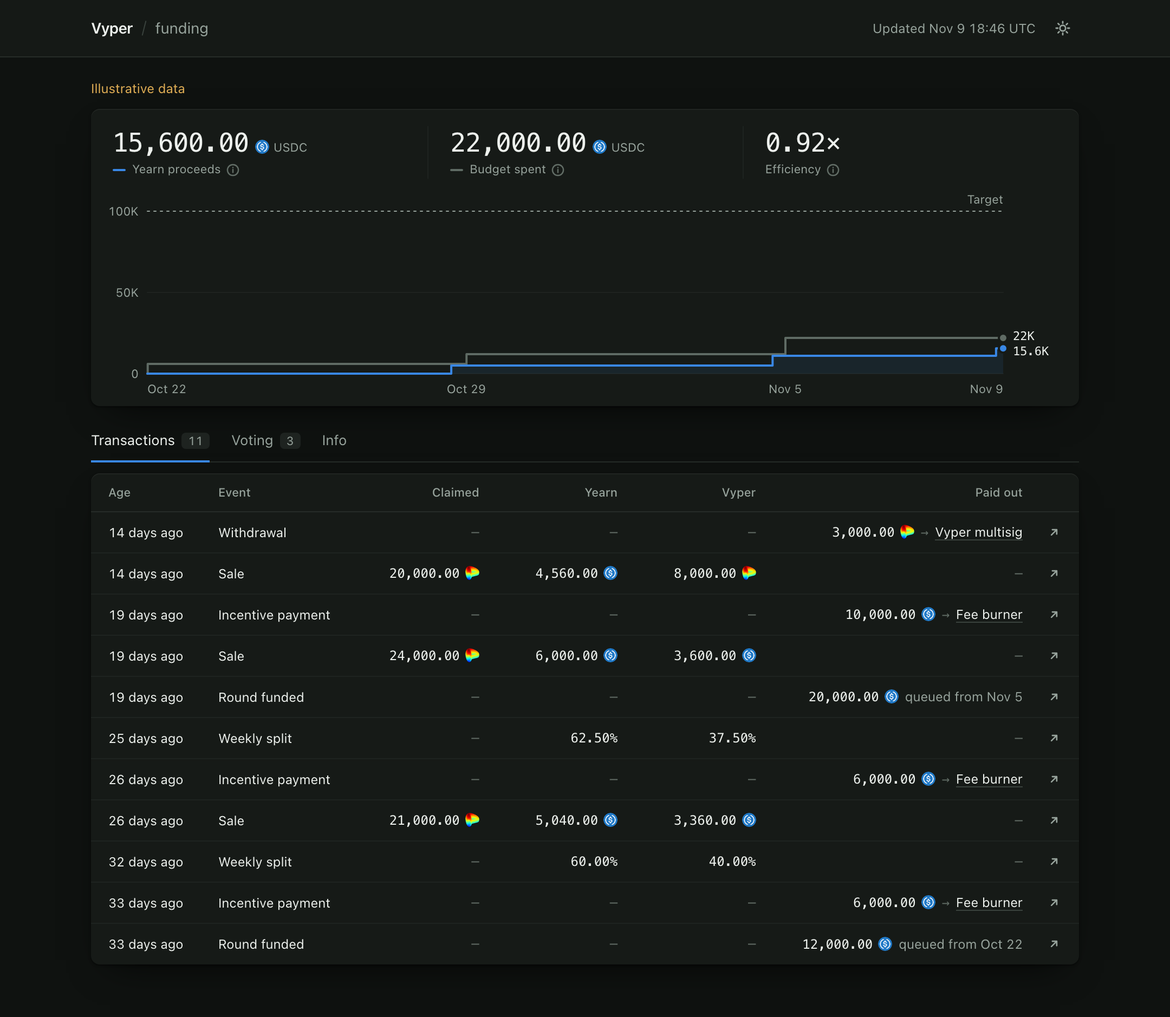
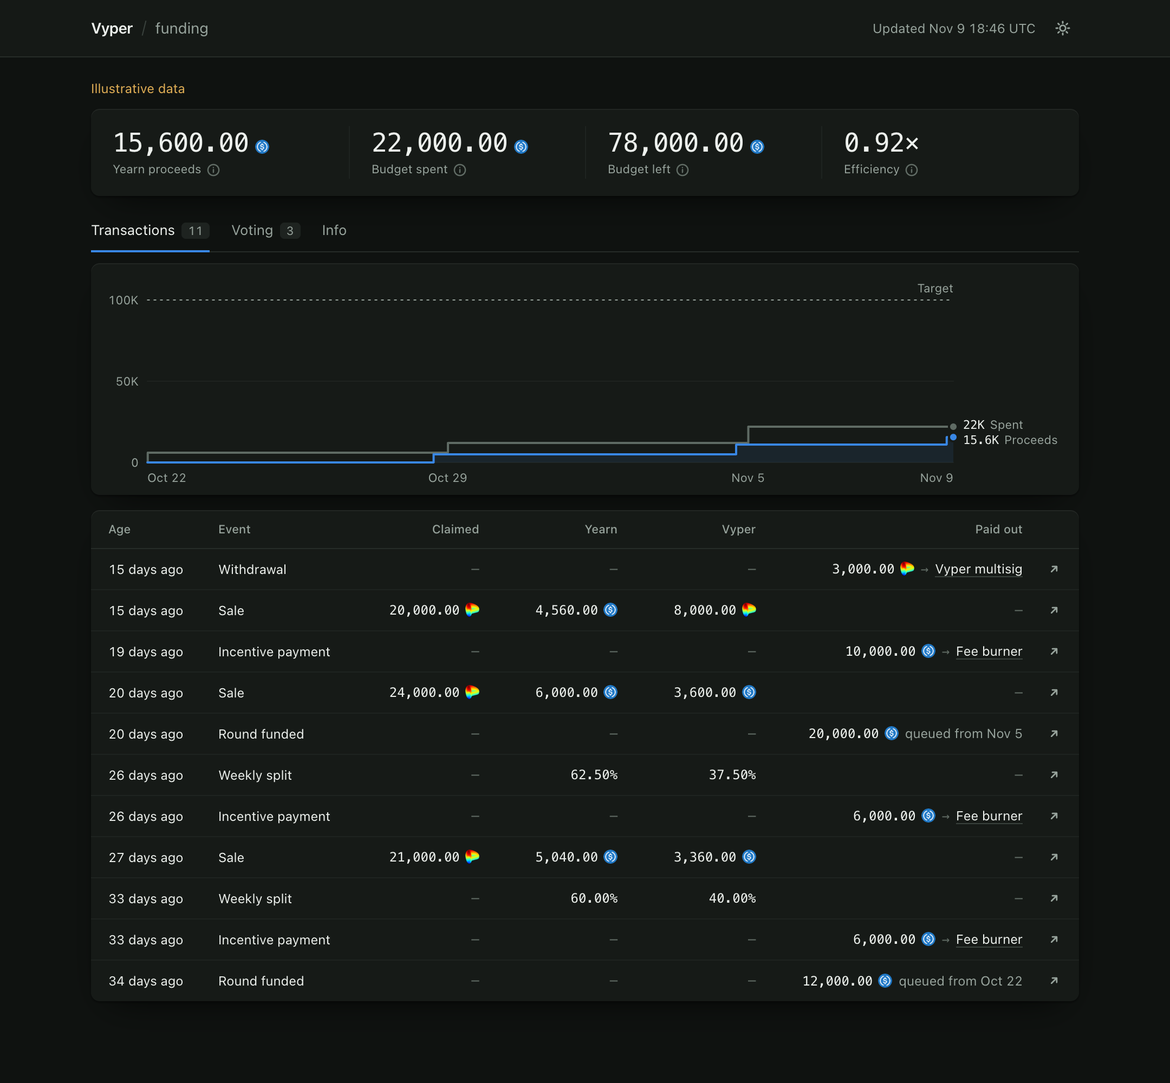
Show the budget left and give each tab its own chart
The top card is now a strip of four figures shown on every tab: Yearn
proceeds, budget spent, budget left under the 100,000 USDC cap, and
efficiency. The coin stands in for the word USDC so four fit across down
to about 860px; narrower, they sit two by two. Budget left's tooltip
gives the funding escrow's balance, which yield and top-ups can raise.

The progress chart moves into the Transactions tab above its table, as
the votes chart already sits in Voting, so only one chart shows at a
time. Its lines are named at their ends, and both labels show when the
lines finish level.

diff --git a/dashboard/demo/index.html b/dashboard/demo/index.html
@@ -84,8 +84,10 @@ main{padding-top:20px;padding-bottom:48px}
 .tag{margin-left:8px;padding:1px 6px;border-radius:4px;background:var(--soft);color:var(--muted);font:11px var(--sans);vertical-align:1px}
 .count{margin-left:6px;padding:1px 6px;border-radius:4px;background:var(--soft);color:var(--muted);font-size:11px;font-variant-numeric:tabular-nums}.count:empty{display:none}
 .none{margin:0;padding:28px 16px;text-align:center;color:var(--muted)}
-.chart{padding:16px 16px 8px}
+.strip{padding:16px}.strip .figures{margin-bottom:0}
+.chart{margin-bottom:14px;padding:16px 16px 8px}
 .figures{display:grid;grid-template-columns:repeat(2,minmax(0,1fr));margin:0 4px 12px}.figures.three{grid-template-columns:repeat(3,minmax(0,1fr))}
+.figures.four{grid-template-columns:repeat(4,minmax(0,1fr))}
 .votes{margin-bottom:14px;padding:16px 16px 8px}.votes .figure strong{font-size:16px;line-height:22px;letter-spacing:-.3px}
 .key.square{width:8px;height:8px;border-radius:2px}#bars{position:relative}#bars svg{overflow:visible;stroke-width:1}#bars svg:focus-visible{outline:2px solid var(--muted);outline-offset:4px}
 .bar{stroke:none}.bar.yearn{fill:var(--accent)}.bar.others{fill:var(--second)}.pending{opacity:.45}.upcoming td,.due{color:var(--muted)}td .dot{display:inline-block;margin-left:9px;vertical-align:1px}
@@ -122,8 +124,10 @@ tr:hover .address .act,.address .act:focus-visible,.act.copied{opacity:1}
 .check,.act.copied .copy{display:none}.act.copied .check{display:block}.act.copied{color:var(--live)}
 @media(hover:none){.address .act{opacity:1}}
 @media(min-width:960px){table{table-layout:fixed}.c-date{width:17%}.c-hold{width:32%}.c-link{width:44px}.h-age{width:12%}.h-num{width:14%}.h-paid{width:27%}.w-vote{width:7.5%}.w-share{width:8%}.w-claim{width:13%}.w-paid{width:12%}.w-eff{width:11%}}
+/* Four figures across need about 860px; narrower, they sit two by two. */
+@media(max-width:860px){.figures.four{grid-template-columns:repeat(2,minmax(0,1fr));gap:14px 0}.figures.four .figure:nth-child(odd){padding-left:0;border-left:0}}
 @media(max-width:600px){.bar,main{padding-left:16px;padding-right:16px}.full{display:none}.short{display:inline}.address .act{opacity:1}
-  .figure strong{font-size:19px;line-height:26px}.figure+.figure{padding-left:14px}.chart .figure .unit{font-size:0}
+  .figure strong{font-size:19px;line-height:26px}.figure+.figure{padding-left:14px}
   .figures.three{grid-template-columns:1fr 1fr;gap:10px 0}.figures.three .figure:nth-child(3){grid-column:1/-1;display:flex;align-items:baseline;gap:8px;padding:10px 0 0;border-left:0;border-top:1px solid var(--soft)}.figures.three .figure:nth-child(3) .label{margin:0}
   #plot{min-height:160px}
   /* Table rows stack: a title line with its time, result or link, then the amounts on a
@@ -161,13 +165,13 @@ tr:hover .address .act,.address .act:focus-visible,.act.copied{opacity:1}
 <h1 class="visually-hidden">Vyper funding</h1>
 <p class="notice" id="demo" hidden>Illustrative data</p>
 <div id="notices" role="status"></div>
-<section class="card chart" id="chart" aria-label="Progress">
-<div class="figures three">
-<div class="figure"><strong><span id="earned">—</span><span class="unit"><span class="token usdc" aria-hidden="true"></span>USDC</span></strong><span class="label"><i class="key"></i>Yearn proceeds<button class="act info" id="tip-earned" type="button"></button></span></div>
-<div class="figure"><strong><span id="spent">—</span><span class="unit"><span class="token usdc" aria-hidden="true"></span>USDC</span></strong><span class="label"><i class="key budget"></i>Budget spent<button class="act info" id="tip-spent" type="button"></button></span></div>
+<section class="card strip" aria-label="Progress">
+<div class="figures four">
+<div class="figure"><strong><span id="earned">—</span><span class="unit"><span class="token usdc" aria-hidden="true"></span><span class="visually-hidden">USDC</span></span></strong><span class="label">Yearn proceeds<button class="act info" id="tip-earned" type="button"></button></span></div>
+<div class="figure"><strong><span id="spent">—</span><span class="unit"><span class="token usdc" aria-hidden="true"></span><span class="visually-hidden">USDC</span></span></strong><span class="label">Budget spent<button class="act info" id="tip-spent" type="button"></button></span></div>
+<div class="figure"><strong><span id="left">—</span><span class="unit"><span class="token usdc" aria-hidden="true"></span><span class="visually-hidden">USDC</span></span></strong><span class="label">Budget left<button class="act info" id="tip-left" type="button"></button></span></div>
 <div class="figure"><strong id="return">—</strong><span class="label">Efficiency<button class="act info" id="tip-return" type="button"></button></span></div>
 </div>
-<div id="plot"></div>
 </section>
 <div id="views" hidden>
 <div class="tabs" role="tablist" aria-label="Views">
@@ -175,7 +179,10 @@ tr:hover .address .act,.address .act:focus-visible,.act.copied{opacity:1}
 <button id="tab-weeks" type="button" role="tab" aria-controls="weekly" data-view="voting">Voting<span class="count" id="weekly-count"></span></button>
 <button id="tab-info" type="button" role="tab" aria-controls="info" data-view="info">Info</button>
 </div>
-<section class="card scroll stack" id="history" role="tabpanel" aria-labelledby="tab-history"><table><thead><tr><th scope="col" class="h-age" id="time-head">Age</th><th scope="col" class="text">Event</th><th scope="col" class="h-num">Claimed</th><th scope="col" class="h-num">Yearn</th><th scope="col" class="h-num">Vyper</th><th scope="col" class="h-paid">Paid out</th><th scope="col" class="c-link"><span class="visually-hidden">Transaction</span></th></tr></thead><tbody id="transactions"></tbody></table><p class="none">No transactions yet</p></section>
+<section id="history" role="tabpanel" aria-labelledby="tab-history">
+<div class="card chart"><div id="plot"></div></div>
+<div class="card scroll stack"><table><thead><tr><th scope="col" class="h-age" id="time-head">Age</th><th scope="col" class="text">Event</th><th scope="col" class="h-num">Claimed</th><th scope="col" class="h-num">Yearn</th><th scope="col" class="h-num">Vyper</th><th scope="col" class="h-paid">Paid out</th><th scope="col" class="c-link"><span class="visually-hidden">Transaction</span></th></tr></thead><tbody id="transactions"></tbody></table><p class="none">No transactions yet</p></div>
+</section>
 <section id="weekly" role="tabpanel" aria-labelledby="tab-weeks">
 <div class="card votes" id="votes" hidden>
 <div class="figures three">
@@ -465,6 +472,7 @@ const svg = (tag, attrs = {}, text) => {
 const goal = TARGET.toLocaleString('en-US');
 label(el('tip-earned'), `USDC from selling Yearn's share of the gauge's CRV. Target ${goal}.`);
 label(el('tip-spent'), `USDC paid from the funding escrow for votes. Cap ${goal}.`);
+label(el('tip-left'), `The ${goal} cap less what has been spent.`);
 label(el('tip-emissions'), "The gauge's share of this week's CRV emissions.");
 label(el('tip-receiver'), 'Any address but the Vyper multisig: CRV sent there is swept up and split again.');
 function renderChart() {
@@ -477,16 +485,17 @@ function renderChart() {
     return [[t0, 0], ...events.sort((a, b) => a[0] - b[0])
       .map(([t, change]) => [Math.min(Math.max(t, t0), t1), value += change])];
   };
-  // Drawn in this order, so the proceeds line sits on top where the two overlap.
+  // Drawn in this order, so the proceeds line sits on top where the two overlap. The short
+  // name labels the line's end; the long one heads its row in the tooltip.
   const lines = [
-    ['budget', 'Budget spent', steps((report.payments ?? []).map(p => [Number(p.timestamp), usd(p.usdc)]))],
+    ['budget', 'Budget spent', steps((report.payments ?? []).map(p => [Number(p.timestamp), usd(p.usdc)])), 'Spent'],
     ['proceeds', 'Yearn proceeds', steps((report.transactions ?? []).filter(t => t.kind === 'work')
-      .map(t => [Number(t.timestamp), usd(t.yearn_usdc)]))],
+      .map(t => [Number(t.timestamp), usd(t.yearn_usdc)])), 'Proceeds'],
   ];
   const at = (points, t) => points.reduce((value, [time, v]) => time <= t ? v : value, points[0][1]);
   const last = points => points[points.length - 1][1];
 
-  const H = W < 480 ? 160 : 190, left = 36, right = W - 54, top = 18, bottom = H - 22;
+  const H = W < 480 ? 160 : 190, left = 36, right = W - 100, top = 18, bottom = H - 22;
   const peak = Math.max(TARGET, ...lines.flatMap(line => line[2].map(point => point[1])));
   const x = t => left + (t - t0) / (t1 - t0) * (right - left);
   const y = v => bottom - v / peak * (bottom - top);
@@ -506,11 +515,12 @@ function renderChart() {
     root.append(svg('text', {class: 'tick', x: right, y: H - 4, 'text-anchor': 'end'}, day(t1)));
   }
 
-  // End labels sit beside their dots, nudged apart when the two lines finish close together.
+  // End labels sit beside their dots, nudged apart when the two lines finish close together;
+  // proceeds takes the upper place when they finish level.
   const ends = lines.map(line => y(last(line[2])));
-  const order = ends[0] <= ends[1] ? [0, 1] : [1, 0];
-  const labels = [...ends], tied = ends[0] === ends[1];
-  if (!tied && Math.abs(ends[0] - ends[1]) < 14) {
+  const order = ends[0] < ends[1] ? [0, 1] : [1, 0];
+  const labels = [...ends];
+  if (Math.abs(ends[0] - ends[1]) < 14) {
     const middle = (ends[0] + ends[1]) / 2;
     labels[order[0]] = middle - 7;
     labels[order[1]] = middle + 7;
@@ -520,10 +530,10 @@ function renderChart() {
   for (const [name, , points] of lines) {
     root.append(svg('path', {class: 'line ' + name, 'stroke-linejoin': 'round', d: trace(points)}));
   }
-  lines.forEach(([name, , points], i) => {
-    root.append(svg('circle', {class: 'dot ' + name, cx: right, cy: ends[i], r: 4}));
-    // Two lines ending on the same value share one label.
-    if (!tied || i) root.append(svg('text', {class: 'end', x: right + 9, y: labels[i] + 4}, compact(last(points))));
+  lines.forEach(([name, , points, short], i) => {
+    const end = svg('text', {class: 'end', x: right + 9, y: labels[i] + 4}, compact(last(points)));
+    end.append(svg('tspan', {class: 'tick', dx: 5}, short));
+    root.append(svg('circle', {class: 'dot ' + name, cx: right, cy: ends[i], r: 4}), end);
   });
 
   // Hover or focus reads every series at one moment; arrow keys walk the transactions.
@@ -703,8 +713,12 @@ function renderReport() {
     el('notices').append(p);
   }
   if (report.funding_assets != null) {
+    // What is left under the cap, which can differ from the escrow's balance: yield and top-ups add to it.
+    const left = BigInt(TARGET) * 10n ** 6n - big(report.spent);
     el('earned').textContent = amount(report.totals?.yearn, 6);
     el('spent').textContent = amount(report.spent, 6);
+    el('left').textContent = amount(left > 0n ? left : 0n, 6);
+    label(el('tip-left'), `The ${goal} cap less what has been spent. The funding escrow holds ${amount(report.funding_assets, 6)}.`);
   }
 
   // One row per week, newest first: the votes, the incentive paid for them and what they produced.

diff --git a/dashboard/template.html b/dashboard/template.html
@@ -84,8 +84,10 @@ main{padding-top:20px;padding-bottom:48px}
 .tag{margin-left:8px;padding:1px 6px;border-radius:4px;background:var(--soft);color:var(--muted);font:11px var(--sans);vertical-align:1px}
 .count{margin-left:6px;padding:1px 6px;border-radius:4px;background:var(--soft);color:var(--muted);font-size:11px;font-variant-numeric:tabular-nums}.count:empty{display:none}
 .none{margin:0;padding:28px 16px;text-align:center;color:var(--muted)}
-.chart{padding:16px 16px 8px}
+.strip{padding:16px}.strip .figures{margin-bottom:0}
+.chart{margin-bottom:14px;padding:16px 16px 8px}
 .figures{display:grid;grid-template-columns:repeat(2,minmax(0,1fr));margin:0 4px 12px}.figures.three{grid-template-columns:repeat(3,minmax(0,1fr))}
+.figures.four{grid-template-columns:repeat(4,minmax(0,1fr))}
 .votes{margin-bottom:14px;padding:16px 16px 8px}.votes .figure strong{font-size:16px;line-height:22px;letter-spacing:-.3px}
 .key.square{width:8px;height:8px;border-radius:2px}#bars{position:relative}#bars svg{overflow:visible;stroke-width:1}#bars svg:focus-visible{outline:2px solid var(--muted);outline-offset:4px}
 .bar{stroke:none}.bar.yearn{fill:var(--accent)}.bar.others{fill:var(--second)}.pending{opacity:.45}.upcoming td,.due{color:var(--muted)}td .dot{display:inline-block;margin-left:9px;vertical-align:1px}
@@ -122,8 +124,10 @@ tr:hover .address .act,.address .act:focus-visible,.act.copied{opacity:1}
 .check,.act.copied .copy{display:none}.act.copied .check{display:block}.act.copied{color:var(--live)}
 @media(hover:none){.address .act{opacity:1}}
 @media(min-width:960px){table{table-layout:fixed}.c-date{width:17%}.c-hold{width:32%}.c-link{width:44px}.h-age{width:12%}.h-num{width:14%}.h-paid{width:27%}.w-vote{width:7.5%}.w-share{width:8%}.w-claim{width:13%}.w-paid{width:12%}.w-eff{width:11%}}
+/* Four figures across need about 860px; narrower, they sit two by two. */
+@media(max-width:860px){.figures.four{grid-template-columns:repeat(2,minmax(0,1fr));gap:14px 0}.figures.four .figure:nth-child(odd){padding-left:0;border-left:0}}
 @media(max-width:600px){.bar,main{padding-left:16px;padding-right:16px}.full{display:none}.short{display:inline}.address .act{opacity:1}
-  .figure strong{font-size:19px;line-height:26px}.figure+.figure{padding-left:14px}.chart .figure .unit{font-size:0}
+  .figure strong{font-size:19px;line-height:26px}.figure+.figure{padding-left:14px}
   .figures.three{grid-template-columns:1fr 1fr;gap:10px 0}.figures.three .figure:nth-child(3){grid-column:1/-1;display:flex;align-items:baseline;gap:8px;padding:10px 0 0;border-left:0;border-top:1px solid var(--soft)}.figures.three .figure:nth-child(3) .label{margin:0}
   #plot{min-height:160px}
   /* Table rows stack: a title line with its time, result or link, then the amounts on a
@@ -161,13 +165,13 @@ tr:hover .address .act,.address .act:focus-visible,.act.copied{opacity:1}
 <h1 class="visually-hidden">Vyper funding</h1>
 <p class="notice" id="demo" hidden>Illustrative data</p>
 <div id="notices" role="status"></div>
-<section class="card chart" id="chart" aria-label="Progress">
-<div class="figures three">
-<div class="figure"><strong><span id="earned">—</span><span class="unit"><span class="token usdc" aria-hidden="true"></span>USDC</span></strong><span class="label"><i class="key"></i>Yearn proceeds<button class="act info" id="tip-earned" type="button"></button></span></div>
-<div class="figure"><strong><span id="spent">—</span><span class="unit"><span class="token usdc" aria-hidden="true"></span>USDC</span></strong><span class="label"><i class="key budget"></i>Budget spent<button class="act info" id="tip-spent" type="button"></button></span></div>
+<section class="card strip" aria-label="Progress">
+<div class="figures four">
+<div class="figure"><strong><span id="earned">—</span><span class="unit"><span class="token usdc" aria-hidden="true"></span><span class="visually-hidden">USDC</span></span></strong><span class="label">Yearn proceeds<button class="act info" id="tip-earned" type="button"></button></span></div>
+<div class="figure"><strong><span id="spent">—</span><span class="unit"><span class="token usdc" aria-hidden="true"></span><span class="visually-hidden">USDC</span></span></strong><span class="label">Budget spent<button class="act info" id="tip-spent" type="button"></button></span></div>
+<div class="figure"><strong><span id="left">—</span><span class="unit"><span class="token usdc" aria-hidden="true"></span><span class="visually-hidden">USDC</span></span></strong><span class="label">Budget left<button class="act info" id="tip-left" type="button"></button></span></div>
 <div class="figure"><strong id="return">—</strong><span class="label">Efficiency<button class="act info" id="tip-return" type="button"></button></span></div>
 </div>
-<div id="plot"></div>
 </section>
 <div id="views" hidden>
 <div class="tabs" role="tablist" aria-label="Views">
@@ -175,7 +179,10 @@ tr:hover .address .act,.address .act:focus-visible,.act.copied{opacity:1}
 <button id="tab-weeks" type="button" role="tab" aria-controls="weekly" data-view="voting">Voting<span class="count" id="weekly-count"></span></button>
 <button id="tab-info" type="button" role="tab" aria-controls="info" data-view="info">Info</button>
 </div>
-<section class="card scroll stack" id="history" role="tabpanel" aria-labelledby="tab-history"><table><thead><tr><th scope="col" class="h-age" id="time-head">Age</th><th scope="col" class="text">Event</th><th scope="col" class="h-num">Claimed</th><th scope="col" class="h-num">Yearn</th><th scope="col" class="h-num">Vyper</th><th scope="col" class="h-paid">Paid out</th><th scope="col" class="c-link"><span class="visually-hidden">Transaction</span></th></tr></thead><tbody id="transactions"></tbody></table><p class="none">No transactions yet</p></section>
+<section id="history" role="tabpanel" aria-labelledby="tab-history">
+<div class="card chart"><div id="plot"></div></div>
+<div class="card scroll stack"><table><thead><tr><th scope="col" class="h-age" id="time-head">Age</th><th scope="col" class="text">Event</th><th scope="col" class="h-num">Claimed</th><th scope="col" class="h-num">Yearn</th><th scope="col" class="h-num">Vyper</th><th scope="col" class="h-paid">Paid out</th><th scope="col" class="c-link"><span class="visually-hidden">Transaction</span></th></tr></thead><tbody id="transactions"></tbody></table><p class="none">No transactions yet</p></div>
+</section>
 <section id="weekly" role="tabpanel" aria-labelledby="tab-weeks">
 <div class="card votes" id="votes" hidden>
 <div class="figures three">
@@ -465,6 +472,7 @@ const svg = (tag, attrs = {}, text) => {
 const goal = TARGET.toLocaleString('en-US');
 label(el('tip-earned'), `USDC from selling Yearn's share of the gauge's CRV. Target ${goal}.`);
 label(el('tip-spent'), `USDC paid from the funding escrow for votes. Cap ${goal}.`);
+label(el('tip-left'), `The ${goal} cap less what has been spent.`);
 label(el('tip-emissions'), "The gauge's share of this week's CRV emissions.");
 label(el('tip-receiver'), 'Any address but the Vyper multisig: CRV sent there is swept up and split again.');
 function renderChart() {
@@ -477,16 +485,17 @@ function renderChart() {
     return [[t0, 0], ...events.sort((a, b) => a[0] - b[0])
       .map(([t, change]) => [Math.min(Math.max(t, t0), t1), value += change])];
   };
-  // Drawn in this order, so the proceeds line sits on top where the two overlap.
+  // Drawn in this order, so the proceeds line sits on top where the two overlap. The short
+  // name labels the line's end; the long one heads its row in the tooltip.
   const lines = [
-    ['budget', 'Budget spent', steps((report.payments ?? []).map(p => [Number(p.timestamp), usd(p.usdc)]))],
+    ['budget', 'Budget spent', steps((report.payments ?? []).map(p => [Number(p.timestamp), usd(p.usdc)])), 'Spent'],
     ['proceeds', 'Yearn proceeds', steps((report.transactions ?? []).filter(t => t.kind === 'work')
-      .map(t => [Number(t.timestamp), usd(t.yearn_usdc)]))],
+      .map(t => [Number(t.timestamp), usd(t.yearn_usdc)])), 'Proceeds'],
   ];
   const at = (points, t) => points.reduce((value, [time, v]) => time <= t ? v : value, points[0][1]);
   const last = points => points[points.length - 1][1];
 
-  const H = W < 480 ? 160 : 190, left = 36, right = W - 54, top = 18, bottom = H - 22;
+  const H = W < 480 ? 160 : 190, left = 36, right = W - 100, top = 18, bottom = H - 22;
   const peak = Math.max(TARGET, ...lines.flatMap(line => line[2].map(point => point[1])));
   const x = t => left + (t - t0) / (t1 - t0) * (right - left);
   const y = v => bottom - v / peak * (bottom - top);
@@ -506,11 +515,12 @@ function renderChart() {
     root.append(svg('text', {class: 'tick', x: right, y: H - 4, 'text-anchor': 'end'}, day(t1)));
   }
 
-  // End labels sit beside their dots, nudged apart when the two lines finish close together.
+  // End labels sit beside their dots, nudged apart when the two lines finish close together;
+  // proceeds takes the upper place when they finish level.
   const ends = lines.map(line => y(last(line[2])));
-  const order = ends[0] <= ends[1] ? [0, 1] : [1, 0];
-  const labels = [...ends], tied = ends[0] === ends[1];
-  if (!tied && Math.abs(ends[0] - ends[1]) < 14) {
+  const order = ends[0] < ends[1] ? [0, 1] : [1, 0];
+  const labels = [...ends];
+  if (Math.abs(ends[0] - ends[1]) < 14) {
     const middle = (ends[0] + ends[1]) / 2;
     labels[order[0]] = middle - 7;
     labels[order[1]] = middle + 7;
@@ -520,10 +530,10 @@ function renderChart() {
   for (const [name, , points] of lines) {
     root.append(svg('path', {class: 'line ' + name, 'stroke-linejoin': 'round', d: trace(points)}));
   }
-  lines.forEach(([name, , points], i) => {
-    root.append(svg('circle', {class: 'dot ' + name, cx: right, cy: ends[i], r: 4}));
-    // Two lines ending on the same value share one label.
-    if (!tied || i) root.append(svg('text', {class: 'end', x: right + 9, y: labels[i] + 4}, compact(last(points))));
+  lines.forEach(([name, , points, short], i) => {
+    const end = svg('text', {class: 'end', x: right + 9, y: labels[i] + 4}, compact(last(points)));
+    end.append(svg('tspan', {class: 'tick', dx: 5}, short));
+    root.append(svg('circle', {class: 'dot ' + name, cx: right, cy: ends[i], r: 4}), end);
   });
 
   // Hover or focus reads every series at one moment; arrow keys walk the transactions.
@@ -703,8 +713,12 @@ function renderReport() {
     el('notices').append(p);
   }
   if (report.funding_assets != null) {
+    // What is left under the cap, which can differ from the escrow's balance: yield and top-ups add to it.
+    const left = BigInt(TARGET) * 10n ** 6n - big(report.spent);
     el('earned').textContent = amount(report.totals?.yearn, 6);
     el('spent').textContent = amount(report.spent, 6);
+    el('left').textContent = amount(left > 0n ? left : 0n, 6);
+    label(el('tip-left'), `The ${goal} cap less what has been spent. The funding escrow holds ${amount(report.funding_assets, 6)}.`);
   }
 
   // One row per week, newest first: the votes, the incentive paid for them and what they produced.

diff --git a/README.md b/README.md
@@ -142,9 +142,9 @@ Funding amounts use 6-decimal USDC; proceeds quotes, minimums, balances and allo
 
 The dashboard is one page, [`dashboard/template.html`](dashboard/template.html), with no build step or external scripts. It shows a report from `vyper-grant report`, which reads every value at the latest mined block and rechecks that block's hash before writing. The token icons are embedded in the page: USDC from the [CoW Protocol token list](https://github.com/cowprotocol/token-lists) and CRV from [Llama Airforce](https://github.com/Llama-Airforce/Llama-Airforce).
 
-The page leads with three figures from [budget request #356](https://github.com/yearn/budget/issues/356): Yearn's cumulative USDC proceeds against the 100,000 USDC target, its funding payments against the 100,000 USDC spending cap, and efficiency: proceeds per USDC spent, so 1.10× is $1.10 earned for every $1 spent. A week's payment lands at its start and its proceeds at its end, so efficiency counts completed weeks only, both in the headline and in each row of Weeks; the open week reads as pending. The chart plots proceeds and payments over time. Proceeds are realized USDC from sales; the request credits Vyper funding by valuing attributable CRV, which this page does not compute.
+The page leads with four figures from [budget request #356](https://github.com/yearn/budget/issues/356), shown on every tab: Yearn's cumulative USDC proceeds against the 100,000 USDC target, its funding payments against the 100,000 USDC spending cap, the budget left under that cap, and efficiency: proceeds per USDC spent, so 1.10× is $1.10 earned for every $1 spent. The budget left can differ from the funding escrow's balance, which yield and top-ups add to. A week's payment lands at its start and its proceeds at its end, so efficiency counts completed weeks only, both in the headline and in each row of Voting; the open week reads as pending. Proceeds are realized USDC from sales; the request credits Vyper funding by valuing attributable CRV, which this page does not compute.
 
-Transactions lists each claim's split and every funding event: rounds, payments, cancellations, recipient changes, withdrawals and recoveries, with the recipient where there is one. Voting sets out, for each week, Yearn's and non-Yearn veCRV on the gauge, the CRV claimed, the funding payment for it, Yearn's proceeds and efficiency; the weights are the proceeds escrow's own snapshots, and the row for the coming week shows the votes standing so far. The report keeps funding payments out of its weekly rows, so the page places each in the week its round scheduled it for, or the week it was drawn when no round is on record. Info lists both escrows with their addresses and holdings.
+Each tab below the figures has its own chart above its table. Transactions plots proceeds and payments over time, then lists each claim's split and every funding event: rounds, payments, cancellations, recipient changes, withdrawals and recoveries, with the recipient where there is one. Voting charts the gauge's weekly votes, then sets out, for each week, Yearn's and non-Yearn veCRV on the gauge, the CRV claimed, the funding payment for it, Yearn's proceeds and efficiency; the weights are the proceeds escrow's own snapshots, and the row for the coming week shows the votes standing so far. The report keeps funding payments out of its weekly rows, so the page places each in the week its round scheduled it for, or the week it was drawn when no round is on record. Info lists both escrows with their addresses and holdings.
 
 ```sh
 uv run python -m vyper_grant.server             # live page at http://127.0.0.1:8787
